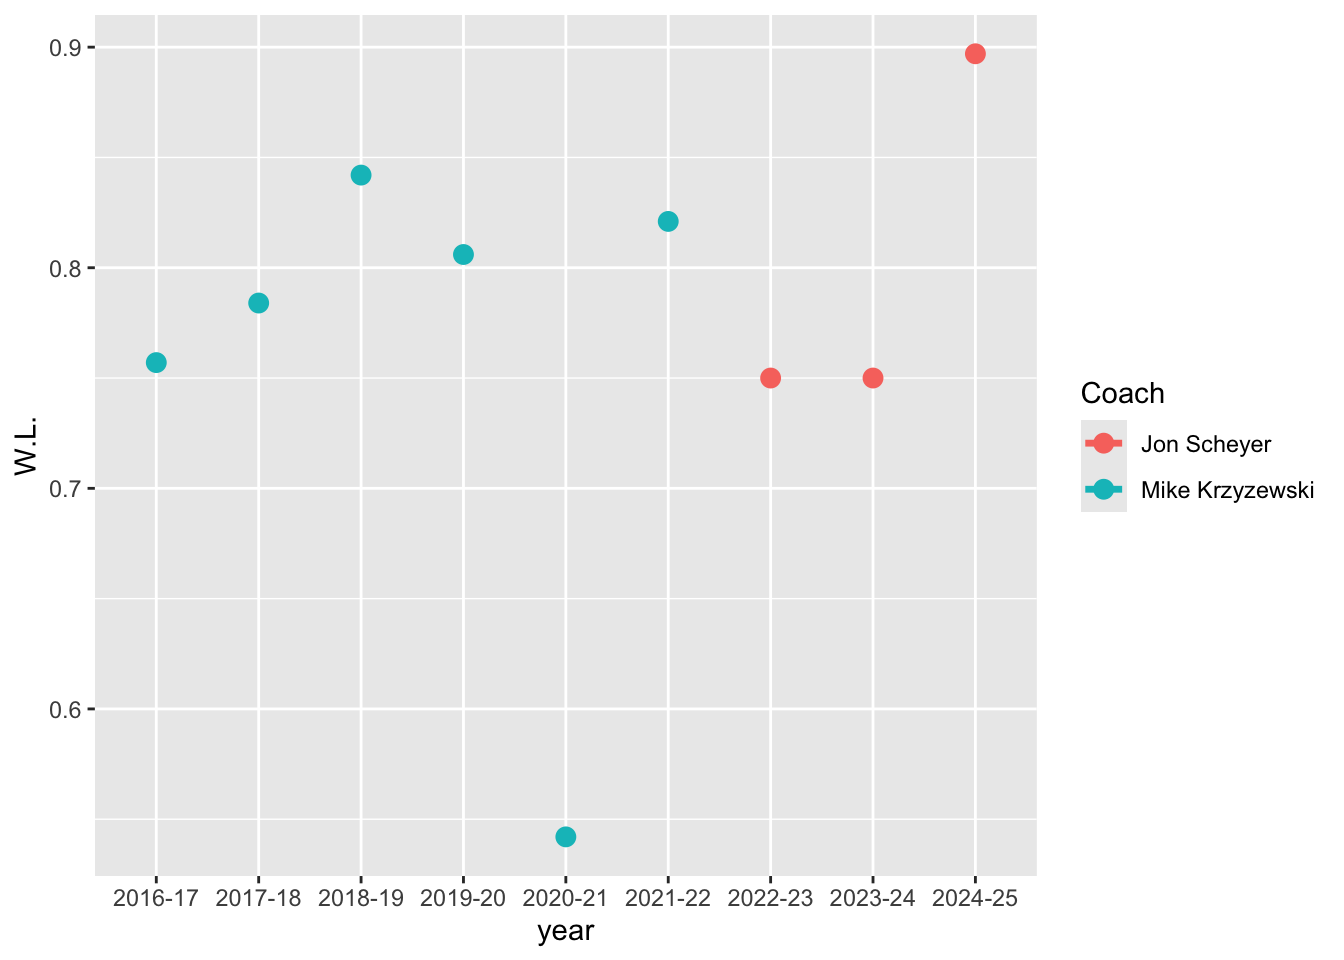
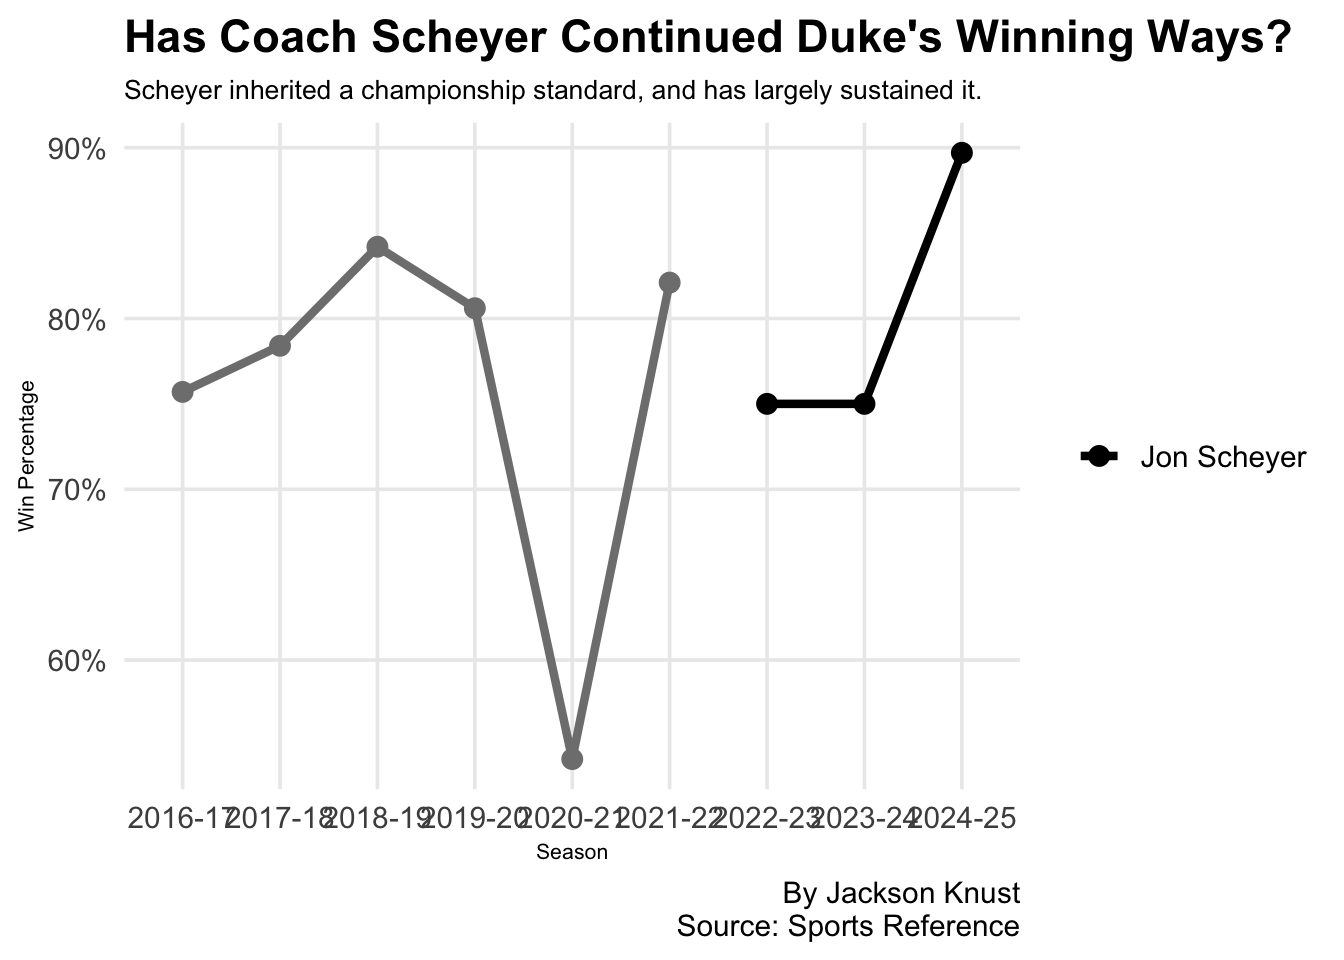
update

diff --git a/posts/duke-basketball-post-coach-K/index.html b/posts/duke-basketball-post-coach-K/index.html
@@ -155,7 +155,7 @@ pre > code.sourceCode > span > a:first-child::before { text-decoration: underlin
   <div class="quarto-title-banner page-columns page-full">
     <div class="quarto-title column-body">
       <h1 class="title">Passing the Torch: How Jon Scheyer Is Sustaining Duke’s Standard</h1>
-            <p class="subtitle lead">A data-driven look at the transition from Coach K to Jon Scheyer and the continuity of Duke’s success</p>
+            <p class="subtitle lead"><em>A data-driven look at the transition from Coach K to Jon Scheyer and the continuity of Duke’s success</em></p>
                                 <div class="quarto-categories">
                 <div class="quarto-category">basketball</div>
                 <div class="quarto-category">ncaa</div>
@@ -200,25 +200,55 @@ pre > code.sourceCode > span > a:first-child::before { text-decoration: underlin
 
 
 
-<p>Every now and again a college athletics programs are lucky enough to find the guy. On March 18th 1980 the Duke Blue Devils Men’s Basketball program did just that. They did this by hiring Head Coach Mike Kryzewski. Coach K as he was dubbed later in his coaching career took the Duke programs to levels only few programs will ever know. In his time at Duke Kryzewski would take the Blue Devils to 13 ACC Regular Season Titles, 15 ACC Tournament Titles, 13 Final Fours, and 5 National Championships including my favorite sports team of all time, the 2015 Duke Blue Devils MBB Team. Coach K achieved this feat due to many different factors including, but not limited to recruiting, efficiency, and especially in his last two decades the one-and-done player. In 2022 Coach K would retire leaving the legacy of Duke Men’s Basketball to former player and long time assistant Jon Scheyer. Scheyer so far has continued the success of Coach K’s final years and this is how he is doing it.</p>
+<p>Coaching transitions at blue-blood programs rarely go smoothly. When Mike Krzyzewski stepped away in 2022, Duke faced the same uncertainty that often derails historic programs, but Jon Scheyer has defied that trend.</p>
+<p>Instead of a drop-off, Duke has remained one of college basketball’s most consistent winners. The numbers show why.</p>
 <div class="cell">
 <details class="code-fold">
 <summary>Code</summary>
-<div class="code-copy-outer-scaffold"><div class="sourceCode cell-code" id="cb1"><pre class="sourceCode r code-with-copy"><code class="sourceCode r"><span id="cb1-1"><a href="#cb1-1" aria-hidden="true" tabindex="-1"></a><span class="fu">ggplot</span>(duke, <span class="fu">aes</span>(<span class="at">x =</span> year, <span class="at">y =</span> W.L., <span class="at">color =</span> Coach)) <span class="sc">+</span></span>
-<span id="cb1-2"><a href="#cb1-2" aria-hidden="true" tabindex="-1"></a>  <span class="fu">geom_line</span>(<span class="at">size =</span> <span class="fl">1.2</span>) <span class="sc">+</span> <span class="fu">geom_point</span>(<span class="at">size =</span> <span class="dv">3</span>)</span></code></pre></div><button title="Copy to Clipboard" class="code-copy-button"><i class="bi"></i></button></div>
+<div class="code-copy-outer-scaffold"><div class="sourceCode cell-code" id="cb1"><pre class="sourceCode r code-with-copy"><code class="sourceCode r"><span id="cb1-1"><a href="#cb1-1" aria-hidden="true" tabindex="-1"></a>duke <span class="ot">&lt;-</span> duke <span class="sc">|&gt;</span></span>
+<span id="cb1-2"><a href="#cb1-2" aria-hidden="true" tabindex="-1"></a>  <span class="fu">mutate</span>(</span>
+<span id="cb1-3"><a href="#cb1-3" aria-hidden="true" tabindex="-1"></a>    <span class="at">Season =</span> <span class="fu">as.numeric</span>(<span class="fu">substr</span>(year, <span class="dv">1</span>, <span class="dv">4</span>)),</span>
+<span id="cb1-4"><a href="#cb1-4" aria-hidden="true" tabindex="-1"></a>    <span class="at">WinPct =</span> <span class="fu">as.numeric</span>(<span class="st">`</span><span class="at">W.L.</span><span class="st">`</span>),</span>
+<span id="cb1-5"><a href="#cb1-5" aria-hidden="true" tabindex="-1"></a>    <span class="at">Coach =</span> <span class="fu">recode</span>(Coach,</span>
+<span id="cb1-6"><a href="#cb1-6" aria-hidden="true" tabindex="-1"></a>                   <span class="st">"Krzyzewski"</span> <span class="ot">=</span> <span class="st">"Coach K"</span>,</span>
+<span id="cb1-7"><a href="#cb1-7" aria-hidden="true" tabindex="-1"></a>                   <span class="st">"Mike Krzyzewski"</span> <span class="ot">=</span> <span class="st">"Coach K"</span>,</span>
+<span id="cb1-8"><a href="#cb1-8" aria-hidden="true" tabindex="-1"></a>                   <span class="st">"Jon Scheyer"</span> <span class="ot">=</span> <span class="st">"Jon Scheyer"</span>)</span>
+<span id="cb1-9"><a href="#cb1-9" aria-hidden="true" tabindex="-1"></a>  )</span></code></pre></div><button title="Copy to Clipboard" class="code-copy-button"><i class="bi"></i></button></div>
 </details>
-<div class="cell-output cell-output-stderr">
-<pre><code>Warning: Using `size` aesthetic for lines was deprecated in ggplot2 3.4.0.
-ℹ Please use `linewidth` instead.</code></pre>
 </div>
-<div class="cell-output cell-output-stderr">
-<pre><code>`geom_line()`: Each group consists of only one observation.
-ℹ Do you need to adjust the group aesthetic?</code></pre>
-</div>
+<div class="cell">
+<details class="code-fold">
+<summary>Code</summary>
+<div class="code-copy-outer-scaffold"><div class="sourceCode cell-code" id="cb2"><pre class="sourceCode r code-with-copy"><code class="sourceCode r"><span id="cb2-1"><a href="#cb2-1" aria-hidden="true" tabindex="-1"></a><span class="fu">ggplot</span>(duke, <span class="fu">aes</span>(<span class="at">x =</span> Season, <span class="at">y =</span> WinPct, <span class="at">color =</span> Coach, <span class="at">group =</span> Coach)) <span class="sc">+</span></span>
+<span id="cb2-2"><a href="#cb2-2" aria-hidden="true" tabindex="-1"></a>  <span class="fu">geom_line</span>(<span class="at">linewidth =</span> <span class="fl">1.5</span>) <span class="sc">+</span></span>
+<span id="cb2-3"><a href="#cb2-3" aria-hidden="true" tabindex="-1"></a>  <span class="fu">geom_point</span>(<span class="at">size =</span> <span class="dv">3</span>) <span class="sc">+</span></span>
+<span id="cb2-4"><a href="#cb2-4" aria-hidden="true" tabindex="-1"></a>  <span class="fu">scale_y_continuous</span>(<span class="at">labels =</span> scales<span class="sc">::</span><span class="fu">percent_format</span>(<span class="at">accuracy =</span> <span class="dv">1</span>)) <span class="sc">+</span></span>
+<span id="cb2-5"><a href="#cb2-5" aria-hidden="true" tabindex="-1"></a>  <span class="fu">scale_color_manual</span>(<span class="at">values =</span> <span class="fu">c</span>(<span class="st">"Coach K"</span> <span class="ot">=</span> <span class="st">"blue"</span>, <span class="st">"Jon Scheyer"</span> <span class="ot">=</span> <span class="st">"black"</span>)) <span class="sc">+</span></span>
+<span id="cb2-6"><a href="#cb2-6" aria-hidden="true" tabindex="-1"></a>  <span class="fu">annotate</span>(<span class="st">"text"</span>,</span>
+<span id="cb2-7"><a href="#cb2-7" aria-hidden="true" tabindex="-1"></a>           <span class="at">x =</span> <span class="fl">2022.2</span>,</span>
+<span id="cb2-8"><a href="#cb2-8" aria-hidden="true" tabindex="-1"></a>           <span class="at">y =</span> <span class="fl">0.92</span>,</span>
+<span id="cb2-9"><a href="#cb2-9" aria-hidden="true" tabindex="-1"></a>           <span class="at">label =</span> <span class="st">"Coach K retires"</span>,</span>
+<span id="cb2-10"><a href="#cb2-10" aria-hidden="true" tabindex="-1"></a>           <span class="at">size =</span> <span class="dv">3</span>) <span class="sc">+</span></span>
+<span id="cb2-11"><a href="#cb2-11" aria-hidden="true" tabindex="-1"></a>  <span class="fu">geom_vline</span>(<span class="at">xintercept =</span> <span class="dv">2022</span>, <span class="at">linetype =</span> <span class="st">"dashed"</span>, <span class="at">color =</span> <span class="st">"grey"</span>) <span class="sc">+</span></span>
+<span id="cb2-12"><a href="#cb2-12" aria-hidden="true" tabindex="-1"></a>  <span class="fu">labs</span>(</span>
+<span id="cb2-13"><a href="#cb2-13" aria-hidden="true" tabindex="-1"></a>    <span class="at">title =</span> <span class="st">"Scheyer has kept Duke in the same winning range as Coach K"</span>,</span>
+<span id="cb2-14"><a href="#cb2-14" aria-hidden="true" tabindex="-1"></a>    <span class="at">subtitle =</span> <span class="st">"Despite replacing a legend, Duke’s win percentage under Scheyer mirrors late-era Coach K seasons."</span>,</span>
+<span id="cb2-15"><a href="#cb2-15" aria-hidden="true" tabindex="-1"></a>    <span class="at">x =</span> <span class="st">"Season"</span>,</span>
+<span id="cb2-16"><a href="#cb2-16" aria-hidden="true" tabindex="-1"></a>    <span class="at">y =</span> <span class="st">"Win Percentage"</span>,</span>
+<span id="cb2-17"><a href="#cb2-17" aria-hidden="true" tabindex="-1"></a>    <span class="at">caption =</span> <span class="st">"Source: Duke Athletics | Graphic by Jackson Knust"</span></span>
+<span id="cb2-18"><a href="#cb2-18" aria-hidden="true" tabindex="-1"></a>  ) <span class="sc">+</span></span>
+<span id="cb2-19"><a href="#cb2-19" aria-hidden="true" tabindex="-1"></a>  <span class="fu">theme_minimal</span>() <span class="sc">+</span></span>
+<span id="cb2-20"><a href="#cb2-20" aria-hidden="true" tabindex="-1"></a>  <span class="fu">theme</span>(</span>
+<span id="cb2-21"><a href="#cb2-21" aria-hidden="true" tabindex="-1"></a>    <span class="at">plot.title =</span> <span class="fu">element_text</span>(<span class="at">size =</span> <span class="dv">15</span>, <span class="at">face =</span> <span class="st">"bold"</span>),</span>
+<span id="cb2-22"><a href="#cb2-22" aria-hidden="true" tabindex="-1"></a>    <span class="at">plot.subtitle =</span> <span class="fu">element_text</span>(<span class="at">size =</span> <span class="dv">9</span>),</span>
+<span id="cb2-23"><a href="#cb2-23" aria-hidden="true" tabindex="-1"></a>    <span class="at">axis.title =</span> <span class="fu">element_text</span>(<span class="at">size =</span> <span class="dv">8</span>),</span>
+<span id="cb2-24"><a href="#cb2-24" aria-hidden="true" tabindex="-1"></a>    <span class="at">panel.grid.minor =</span> <span class="fu">element_blank</span>()</span>
+<span id="cb2-25"><a href="#cb2-25" aria-hidden="true" tabindex="-1"></a>  )</span></code></pre></div><button title="Copy to Clipboard" class="code-copy-button"><i class="bi"></i></button></div>
+</details>
 <div class="cell-output-display">
 <div>
 <figure class="figure">
-<p><img src="index_files/figure-html/unnamed-chunk-1-1.png" class="img-fluid figure-img" width="672"></p>
+<p><img src="index_files/figure-html/unnamed-chunk-2-1.png" class="img-fluid figure-img" width="672"></p>
 </figure>
 </div>
 </div>

diff --git a/index.html b/index.html
@@ -209,10 +209,10 @@ window.Quarto = {
 
 <div class="quarto-listing quarto-listing-container-default" id="listing-listing">
 <div class="list quarto-listing-default">
[2 lines of base64/hex data omitted]
 <div class="thumbnail"><a href="./posts/duke-basketball-post-coach-K/index.html" class="no-external">
 
-<img loading="lazy" src="./posts/duke-basketball-post-coach-K/dukedatastory.png" class="thumbnail-image">
+<img loading="lazy" src="./posts/duke-basketball-post-coach-K/image.png" class="thumbnail-image">
 
 </a></div>
 <div class="body">
@@ -220,7 +220,7 @@ window.Quarto = {
 <a href="./posts/duke-basketball-post-coach-K/index.html" class="no-external">Passing the Torch: How Jon Scheyer Is Sustaining Duke’s Standard</a>
 </h3>
 <div class="listing-subtitle">
-<a href="./posts/duke-basketball-post-coach-K/index.html" class="no-external">A data-driven look at the transition from Coach K to Jon Scheyer and the continuity of Duke’s success</a>
+<a href="./posts/duke-basketball-post-coach-K/index.html" class="no-external"><em>A data-driven look at the transition from Coach K to Jon Scheyer and the continuity of Duke’s success</em></a>
 </div>
 <div class="listing-categories">
 
@@ -240,7 +240,7 @@ window.Quarto = {
 
 </div>
 <div class="delink listing-description"><a href="./posts/duke-basketball-post-coach-K/index.html" class="no-external">
-Every now and again a college athletics programs are lucky enough to find the guy. On March 18th 1980 the Duke Blue Devils Men’s Basketball program did just that. They did…
+Coaching transitions at blue-blood programs rarely go smoothly. When Mike Krzyzewski stepped away in 2022, Duke faced the same uncertainty that often derails historic…
 </a></div>
 </div>
 <div class="metadata">
